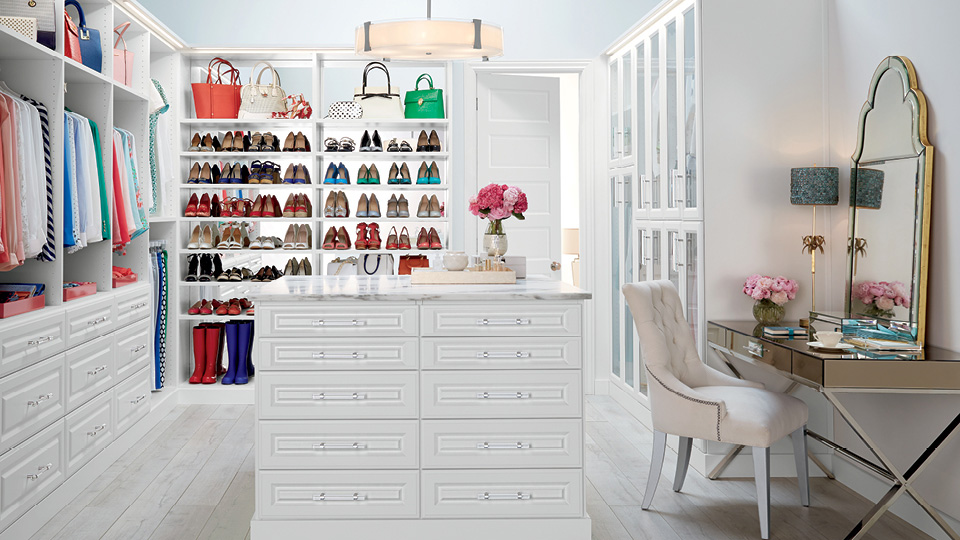
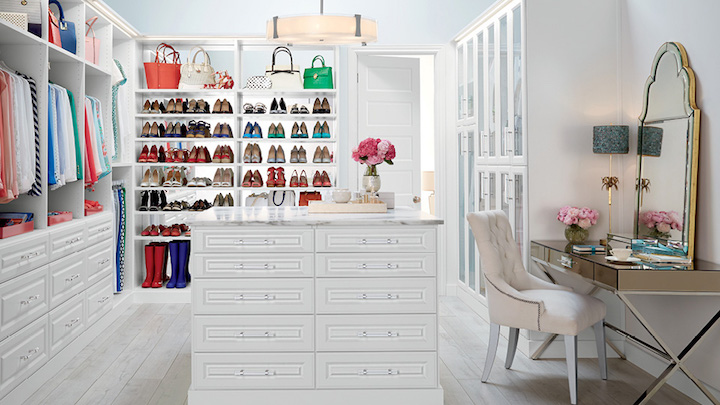
Suitcase-items are viewble in the suitcase. Some image resizing

diff --git a/templates/view_all_items.html b/templates/view_all_items.html
@@ -3,48 +3,48 @@
 
 <script type="text/javascript">
 $(function(){
-    var searchItems = function(){
-        var color_id = $('#color_selector').val()
-        var category = $('#category_selector').val()
-        var closet = $('#closet_selector').val()
+  var searchItems = function(){
+    var color_id = $('#color_selector').val()
+    var category = $('#category_selector').val()
+    var closet = $('#closet_selector').val()
 
-        $.ajax({
-          url: "search",
-          type: "get",
-          data: {color: color_id, category: category, closet:closet},
-          success: function(response) {
-            $(".closet_item").hide()
-            for(var i=0; i<response.items.length; i++){
-                $("[itemid='" +response.items[i]+ "']").show()
-            }
-          },
+    $.ajax({
+      url: "search",
+      type: "get",
+      data: {color: color_id, category: category, closet:closet},
+      success: function(response) {
+        $(".closet_item").hide()
+        for(var i=0; i<response.items.length; i++){
+          $("[itemid='" +response.items[i]+ "']").show()
+        }
+      },
           // error: function(xhr) {
           //   //Do Something to handle error
           // }
         });
-    }
-    
-    $("#color_selector").change(searchItems)
-    $("#category_selector").change(searchItems)
-    $("#closet_selector").change(searchItems)
+  }
+  
+  $("#color_selector").change(searchItems)
+  $("#category_selector").change(searchItems)
+  $("#closet_selector").change(searchItems)
 })
 </script>
 
 <script src="/static/add.js"></script>
 
 <div class="container-fluid">
-<div class="row">
-  <nav class="col-sm-2 sidebar" id="filter-side-navbar">
-    <div class="navbar nav-sidebar">
+  <div class="row">
+    <nav class="col-sm-2 sidebar" id="filter-side-navbar">
+      <div class="navbar nav-sidebar">
 
-      <div class="form-group"> 
+        <div class="form-group"> 
           <label>Color:<br>
             <select id="color_selector" name="color">
               <option value="">Select Color</option>
               {% for color in colors %}
-                <option value= '{{ color.color_id }}' > {{ color }} </option>
+              <option value= '{{ color.color_id }}' > {{ color }} </option>
               {% endfor %}
-              </select>
+            </select>
           </label>
         </div>  
 
@@ -53,18 +53,18 @@ $(function(){
             <select id="category_selector" name="category">
               <option value="">Select Category</option>
               {% for category in categories %}
-                <option value= '{{ category.i_category_id }}' > {{ category }} </option>
+              <option value= '{{ category.i_category_id }}' > {{ category }} </option>
               {% endfor %}
             </select>
           </label>
         </div>
 
-          <div class="form-group">
+        <div class="form-group">
           <label>Closet:<br> 
             <select id="closet_selector" name="closet">
               <option value="">Select Closet</option>
               {% for closet in closets %}
-                <option value= '{{ closet.closet_id }}' > {{ closet }} </option>
+              <option value= '{{ closet.closet_id }}' > {{ closet }} </option>
               {% endfor %}
             </select>
           </label>
@@ -74,47 +74,51 @@ $(function(){
 
 
 
-  <div class="col-sm-10 main">
+    <div class="col-sm-10 main">
 
-    <div id="weatherbar">
+      <div id="weatherbar">
         <iframe src="http://cdnres.willyweather.com/widget/loadView.html?id=55936" width="850" height="92" frameborder="0" scrolling="no"></iframe>
         <a style="height: 92px;z-index: 1;margin: -92px 0 0 0;position: relative;float: right;text-indent: -9999em;width: 20px" href="http://www.willyweather.com/ca/san-francisco-county/san-francisco.html"></a>
-    </div>
+      </div>
 
 
-  <h3>All Items:</h3> 
-    {% for item in items %}
-        <div itemid="{{ item.item_id }}" value="{{ item.item_id }}" name="item_id" class="closet_item">
-            <a href="/itemdetail/{{ item.item_id }}"><img width="300" src= "{{ item.image_filepath }}"></a><br>
+      <h3>All Items:</h3> 
+      {% for item in items %}
+      <div itemid="{{ item.item_id }}" value="{{ item.item_id }}" name="item_id" class="closet_item">
+        
+        <a href="/itemdetail/{{ item.item_id }}"><img width="300" src= "{{ item.image_filepath }}"></a><br>
+        
+        <div class="btn-group">
+
+          <button class="btn btn-default btn-xs dropdown-toggle" type="button" data-toggle="dropdown" aria-haspopup="true" aria-expanded="false">+<br>Add to Suitcase <span class="caret"></span></button>
           
-          <div class="btn-group">
-
-            <button class="btn btn-default btn-xs dropdown-toggle" type="button" data-toggle="dropdown" aria-haspopup="true" aria-expanded="false">+<br>Add to Suitcase <span class="caret"></span></button>
+          <ul class="dropdown-menu">
             
-            <ul class="dropdown-menu">
-              
-              {% for suitcase in suitcases %}
-               <!--  <li><a href="#">{{ suitcase.suitcase_name }}</a></li> -->
-                <li><button type="button" itemid="{{ item.item_id }}" suitcaseid='{{ suitcase.suitcase_id}}' value='{{ suitcase.suitcase_id}}' name="suitcase_id" class="btn btn-default add-to-suitcase-btn btn-xs">{{ suitcase.suitcase_name }}</button></li><br>              
-              {% endfor %}
+            {% for suitcase in suitcases %}
+            <!--  <li><a href="#">{{ suitcase.suitcase_name }}</a></li> -->
+            <li><button type="button" itemid="{{ item.item_id }}" suitcaseid='{{ suitcase.suitcase_id}}' value='{{ suitcase.suitcase_id}}' name="suitcase_id" class="btn btn-default add-to-suitcase-btn btn-xs">{{ suitcase.suitcase_name }}</button></li><br>              
+            {% endfor %}
 
-                <li role="separator" class="divider"></li>
-                <li><a href="/addsuitcase">New Suitcase</a></li>
-            </ul>
-
-          </div>
-
-              <button type="button" id="{{ item.item_id }}" class="btn btn-default btn-xs">+<br>Wear Today</button>
+            <li role="separator" class="divider"></li>
+            <li><a href="/addsuitcase">New Suitcase</a></li>
+          </ul>
 
         </div>
-    {% endfor %}
 
+        <button type="button" id="{{ item.item_id }}" class="btn btn-default btn-xs">+<br>Wear Today</button>
 
-    <a href="/addItem" class="btn btn-default">+<br>Add Item!</a>
+      </div>
+      {% endfor %}
+
+      <div class="add-items-btn">
+        <a href="/addItem" class="btn btn-default">+<br>Add Item!</a>
+      </div>
+
+      
+
+    </div>
 
   </div>
-
-</div>
 </div>
 
 

diff --git a/templates/homepage.html b/templates/homepage.html
@@ -20,43 +20,43 @@
             <!-- Wrapper for slides -->
             <div class="carousel-inner" role="listbox">
                 <div class="item active">
-                    <img class="img-responsive center-block" src="static/images/homepage_imgs/Image01-TCSClosets-960.jpg" width="960" height="540" >
+                    <img class="img-responsive center-block" src="static/images/homepage_imgs/Image01-TCSClosets-960.jpg">
                 </div>
 
                 <div class="item">
-                    <img class="img-responsive center-block" src="static/images/homepage_imgs/Image03-TCSClosets-960.jpg" width="960" height="540">
+                    <img class="img-responsive center-block" src="static/images/homepage_imgs/Image03-TCSClosets-960.jpg">
                 </div>
 
                 <div class="item">
-                    <img class="img-responsive center-block" src="static/images/homepage_imgs/Image04-TCSClosets-960.jpg" width="960" height="540">
+                    <img class="img-responsive center-block" src="static/images/homepage_imgs/Image04-TCSClosets-960.jpg">
                 </div>
 
                 <div class="item">
-                    <img class="img-responsive center-block" src="static/images/homepage_imgs/Image05-TCSClosets-960.jpg" width="960" height="540">
+                    <img class="img-responsive center-block" src="static/images/homepage_imgs/Image05-TCSClosets-960.jpg">
                 </div>
 
                 <div class="item">
-                    <img class="img-responsive center-block" src="static/images/homepage_imgs/Image08-TCSClosets-960.jpg" width="960" height="540">
+                    <img class="img-responsive center-block" src="static/images/homepage_imgs/Image08-TCSClosets-960.jpg">
                 </div>
 
                 <div class="item">
-                    <img class="img-responsive center-block" src="static/images/homepage_imgs/Image09-TCSClosets-960.jpg" width="960" height="540">
+                    <img class="img-responsive center-block" src="static/images/homepage_imgs/Image09-TCSClosets-960.jpg">
                 </div>
 
                 <div class="item">
-                    <img class="img-responsive center-block" src="static/images/homepage_imgs/Image10-TCSClosets-960.jpg" width="960" height="540">
+                    <img class="img-responsive center-block" src="static/images/homepage_imgs/Image10-TCSClosets-960.jpg">
                 </div>
 
                 <div class="item">
-                    <img class="img-responsive center-block" src="static/images/homepage_imgs/Image11-TCSClosets-960.jpg" width="960" height="540">
+                    <img class="img-responsive center-block" src="static/images/homepage_imgs/Image11-TCSClosets-960.jpg">
                 </div>
 
                 <div class="item">
-                    <img class="img-responsive center-block" src="static/images/homepage_imgs/Image12-TCSClosets-960.jpg" width="960" height="540">
+                    <img class="img-responsive center-block" src="static/images/homepage_imgs/Image12-TCSClosets-960.jpg"> 
                 </div>
 
             </div>
-        </div>
+        </div><br>
  
 
 {% endblock %}

diff --git a/static/css/styles1.css b/static/css/styles1.css
@@ -9,7 +9,7 @@ body  {
 
 .base-header {
     font-family: 'Amatic SC', cursive;
-    font-size: 75px;
+    font-size: 70px;
 }
 
 .website-header {
@@ -22,9 +22,10 @@ body  {
 
 /*  clear bootstrap header colors */
 .navbar-default {
-    background-color: white;
-    border-color: white;
+    background-color: transparent;
+    border-color: transparent;
     text-align: center;
+    margin-bottom: 5px;
 }
 
 #weatherbar {
@@ -42,18 +43,33 @@ body  {
     text-align: center;
 }
 
+.suitcases { 
+    display: block;
+    float: left;
+    margin-right: 5px;
+    text-align: center;
+}
+
+.suitcase-items {
+    display: block;
+    float: left;
+    margin-right: 10px;
+    text-align: center;
+}
+
 
 #wrapper {
     min-height:100%;
     position:relative;
 }
 #header {
-    padding:10px;
+    padding:5px;
 }
 
 #content {
     padding-bottom:100px; /* Height of the footer element */
 }
+
 #footer {
     background:#ededed;
     width:100%;
@@ -67,5 +83,14 @@ body  {
     text-align: center;
 }
 
+.add-items-btn {
+    background-color: transparent;
+    width: 300px;
+    height: 460px;
+}
+
+li {
+    text-align: center;
+}
 
 

diff --git a/templates/suitcase_view.html b/templates/suitcase_view.html
@@ -13,13 +13,16 @@
     <a href="/allitems" class="btn btn-default">+<br>Add Items to Suitcase!</a>
  </div><br><br>
 
-{% for suitcase_item in suitcase_items %}
-    <p> {{ suitcase_item.item_id }} <p>
 
+{% for suitcase_item in suitcase_items %}
+<div class="suitcase-items">
+  <p><img src='{{ suitcase_item.item.image_filepath }}' width=300><p>
+</div>
 {% endfor %}
 
+
 <div class="back-button">
-  <a href="/allsuitcases"><img alt="back button"src="/static/images/back.png"> Back to Suitcases...</a>
+  <br><a href="/allsuitcases"><img alt="back button"src="/static/images/back.png"> Back to Suitcases...</a>
 </div>
 
 {% endblock %}

diff --git a/templates/suitcases.html b/templates/suitcases.html
@@ -1,12 +1,11 @@
 {% extends 'base.html' %}
 {% block content %}
 
-{% for suitcase in suitcases %}
-    <p>
-      <a href="/viewsuitcase/{{ suitcase.suitcase_id }}"><img alt="Suitcase"src="/static/images/suitcase.jpg"><br>{{ suitcase.suitcase_name }}</a>
-    <p>
-  {% endfor %}
- 
- 
-    
+{% for suitcase in suitcases %} 
+    <div class="suitcases">
+        <p>
+        <a href="/viewsuitcase/{{ suitcase.suitcase_id }}"><img alt="Suitcase"src="/static/images/suitcase.jpg"><br>{{ suitcase.suitcase_name }}</a>
+        <p>
+    </div>
+{% endfor %}
 {% endblock %}

diff --git a/server.py b/server.py
@@ -376,16 +376,16 @@ def view_suitcases(suitcase_id):
 
     suitcase = Suitcase.query.get(suitcase_id)
 
+    items = Item.query.filter(Item.user_id == user_id).all()
+
     # suitcase = Suitcase.query.filter((Suitcase.suitcase_id == suitcase_id) & (Suitcase.user_id == user_id)).one()
 
     suitcase_items = SuitcaseItem.query.filter(SuitcaseItem.suitcase_id == suitcase_id).all()
 
-    
-
-
     return render_template("suitcase_view.html",
                            suitcase=suitcase,
-                           suitcase_items=suitcase_items)
+                           suitcase_items=suitcase_items,
+                           items=items)
 
 
 @app.route('/search', methods=['GET'])

diff --git a/README.md b/README.md
@@ -1,1 +1,1 @@
-# cloud_closet
+# Cloud Closet
